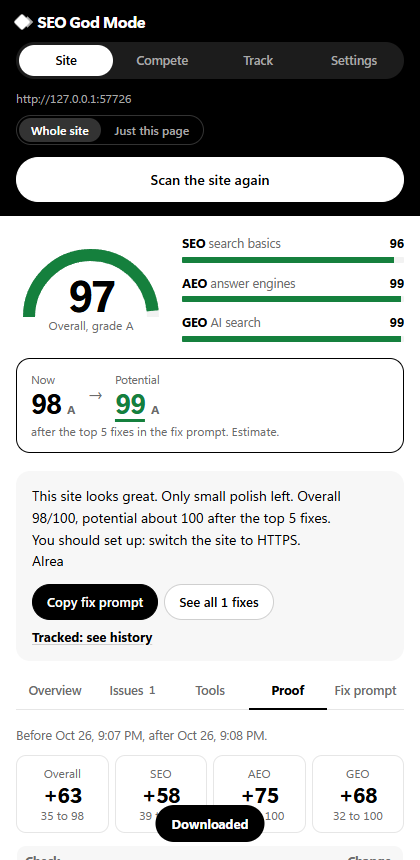
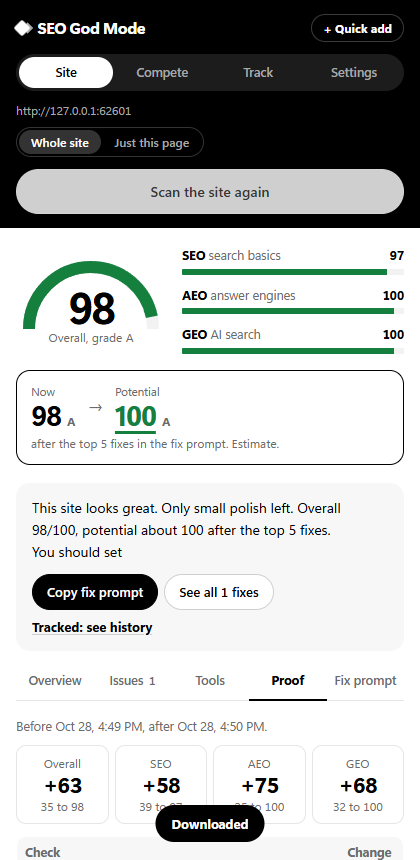
Extension 1.13.0: Quick add, off-page next steps in summaries
Header + Quick add tracks the site in the current tab as a client, your
own website or a competitor (then asks whose competitor). When a page or
site is already ahead on the page, summaries, verdicts and fix prompts
say the next biggest wins are Google reviews, the Google Maps listing and
links from other websites.

diff --git a/extension/views.js b/extension/views.js
@@ -13,7 +13,7 @@ import { rateSite, siteOrigins } from "./lib/siterate.js";
 import { history, saveScan } from "./lib/proof.js";
 import { getSettings, overlayRegistered, runDaily, saveSettings, syncOverlay } from "./lib/daily.js";
 import { techBlock, techProfile } from "./lib/tech.js";
-import { breakdown } from "./lib/breakdown.js";
+import { breakdown, OFF_PAGE } from "./lib/breakdown.js";
 import * as T from "./lib/track.js";
 import * as K from "./lib/kwcheck.js";
 import * as U from "./lib/update.js";
@@ -234,9 +234,9 @@ async function renderResult() {
     <div class="upd"><p>${scan ? `<b>Full site rating ${scan.scores.overall}/100</b> (SEO ${scan.scores.seo}, AEO ${scan.scores.aeo}, GEO ${scan.scores.geo}), scanned ${when(scan.page.scannedAt)}.` : "<b>No full site rating yet.</b> It crawls the site and runs all 39 checks."}</p>
       <div class="btns"><button id="ratesite">${scan ? "Rate the whole site again" : "Rate the whole site"}</button>${!tracked && me && !sameDomain(b.url, me.origin) ? `<button id="trackcomp">Track as competitor</button>` : ""}</div></div>
     <h2 class="sec">Why it ranks here</h2>
-    ${b.why.length ? `<ul class="qs">${b.why.map((w) => `<li>${esc(w)}</li>`).join("")}</ul>` : `<p class="lede">Nothing on the page stands out against the others, so its position likely comes from links, reviews or brand strength (not measured).</p>`}
+    ${b.why.length ? `<ul class="qs">${b.why.map((w) => `<li>${esc(w)}</li>`).join("")}</ul>` : `<p class="lede">Nothing on the page stands out against the others. ${OFF_PAGE}</p>`}
     ${diff.length || other.length ? `<h2 class="sec">${diff.length ? "What the pages above it do differently" : "To rank higher"} <small>most important first</small></h2>
-      <div class="list">${(diff.length ? diff : other).slice(0, 8).map((x) => `<div class="factor"><span class="dot s-fail"></span><div><b>${esc(x.label)}</b><small>This page: ${esc(x.mine)} · ${b.relation === "above" ? "above it" : "others"}: ${esc(x.them.join(" / ") || "–")}</small><p>${esc(x.fix)}</p></div></div>`).join("")}</div>` : `<p class="lede">It matches the others on every on-page factor measured. The gap is off-page.</p>`}
+      <div class="list">${(diff.length ? diff : other).slice(0, 8).map((x) => `<div class="factor"><span class="dot s-fail"></span><div><b>${esc(x.label)}</b><small>This page: ${esc(x.mine)} · ${b.relation === "above" ? "above it" : "others"}: ${esc(x.them.join(" / ") || "–")}</small><p>${esc(x.fix)}</p></div></div>`).join("")}</div>` : `<p class="lede">It matches the others on every on-page factor measured. ${OFF_PAGE}</p>`}
     <div class="btns stack"><button id="bdcopy" class="primary">Copy fix prompt</button></div>
     ${fold("Every factor side by side", b.rows.length, `<table class="mini"><tr><th>Factor</th><th>This</th>${b.rivals.map((r) => `<th title="${esc(r.host)}">#${r.position}</th>`).join("")}</tr>${b.rows.map((r) => `<tr class="${r.behind ? "bad" : ""}"><td>${esc(r.label)}</td><td class="num">${esc(r.mine)}</td>${r.them.map((t) => `<td>${esc(t)}</td>`).join("")}</tr>`).join("")}</table>`, true)}
     ${diff.length && other.length ? fold("Other improvements", other.length, `<div class="list">${other.map((x) => `<div class="factor"><span class="dot s-part"></span><div><b>${esc(x.label)}</b><p>${esc(x.fix)}</p></div></div>`).join("")}</div>`) : ""}
@@ -281,7 +281,7 @@ const RULES = `Rules: use only facts that are on the site or that I confirm, and
 function rankPrompt(r) {
   return `Help my page rank for "${r.query}". My page: ${r.myUrl} (currently ${r.myPosition ? "#" + r.myPosition : "not in the top " + (r.rivals.length + r.skipped.length)}).
 I compared it with the ${r.rivals.length} pages ranking above it (SEO God Mode, ${new Date().toISOString().slice(0, 10)}). On-page factors where they're ahead (OBSERVED):
-${r.behind.map((f, i) => `${i + 1}. ${f.label}: top pages ${f.display[0]}, mine ${f.display[1]}. ${f.fix}`).join("\n") || "- None. The gap is probably off-page (links, reviews, brand)."}
+${r.behind.map((f, i) => `${i + 1}. ${f.label}: top pages ${f.display[0]}, mine ${f.display[1]}. ${f.fix}`).join("\n") || "- None on the page. " + OFF_PAGE}
 ${r.topicGaps.length ? `\nTopics the top pages cover that mine doesn't (only add what we really offer): ${r.topicGaps.map((t) => t.topic).join(", ")}.` : ""}
 ${r.paa.length || r.rivalQuestions.length ? `\nQuestions to answer as headings with a 40–60 word direct answer: ${[...r.paa, ...r.rivalQuestions].slice(0, 8).map((q) => `"${q}"`).join(", ")}.` : ""}
 Target depth: about ${r.brief.targetWords ?? "?"} words in ${r.brief.sections ?? "?"} sections.${r.brief.schema.length ? ` Schema the top pages use: ${r.brief.schema.join(", ")} (add only where it matches visible content).` : ""}
@@ -422,8 +422,19 @@ export async function renderTrack(helpers) {
 // ---------------------------------------------------------------------- Track new: step by step
 /** opts.role / opts.of fix those answers (for "Add competitor" on a business). back: where Cancel returns. */
 function startWizard(opts = {}) {
-  v.wizard = { step: 0, url: "", role: opts.role || null, of: opts.of ?? null, fixed: !!opts.role, kws: new Set(), detected: null, back: opts.back || null };
+  v.wizard = newWizard(opts);
   renderTrack(ui);
+}
+const newWizard = (opts) => ({ step: 0, url: opts.url || "", role: opts.role || null, of: opts.of ?? null, fixed: !!opts.role, kws: new Set(), detected: null, back: opts.back || null });
+
+/** Header "Quick add": track the site in the current tab as a client, your own website or a competitor (asks whose). */
+export async function quickAdd(role, helpers) {
+  ui = helpers;
+  const tab = await helpers.activeTab().catch(() => null);
+  const url = /^https?:/i.test(tab?.url || "") ? new URL(tab.url).origin : "";
+  v.detail = null;
+  v.wizard = newWizard({ role, url });
+  await helpers.setMode("track");
 }
 async function wizardSteps() {
   const w = v.wizard, owned = (await T.trackedSites()).filter(T.isOwned);
@@ -549,7 +560,10 @@ async function compareBlock(s, list) {
     if (m && r.ratio != null && m.ratio != null && r.ratio - m.ratio >= 0.2) gaps.push({ id: r.id, name: r.name, who: rivals[i].name, them: r.ratio, you: m.ratio, gain: m.gain || 0, tip: m.tip }); }));
   const byCheck = Object.values(gaps.reduce((a, g) => { (a[g.id] ||= { ...g, who: [] }).who.push(g.who); return a; }, {})).sort((a, b) => b.who.length - a.who.length || b.gain - a.gain);
   v.cmp = { s, rivals, byCheck, me };
+  const theirs = rows.filter(({ x }) => x.origin !== s.origin).map(({ p }) => p?.overall).filter((n) => n != null);
+  const ahead = me?.overall != null && theirs.length && theirs.every((n) => n <= me.overall);
   return `<h2 class="sec">You vs competitors <small>${rivals.length}</small></h2>
+    ${ahead ? `<p class="verdict">${esc(s.name)} scores ${me.overall}, at or above every tracked competitor (best of theirs ${Math.max(...theirs)}). ${OFF_PAGE}</p>` : ""}
     ${rivals.length ? `<table class="mini"><tr><th>Site</th><th>Overall</th><th>SEO</th><th>AEO</th><th>GEO</th></tr>${rows.map(({ x, p }) => `<tr class="${x.origin === s.origin ? "me" : ""}"><td>${esc(x.name)}</td>${x.origin === s.origin ? `<td>${p?.overall ?? "–"}</td><td>${p?.seo ?? "–"}</td><td>${p?.aeo ?? "–"}</td><td>${p?.geo ?? "–"}</td>` : cell(p?.overall, me?.overall) + cell(p?.seo, me?.seo) + cell(p?.aeo, me?.aeo) + cell(p?.geo, me?.geo)}</tr>`).join("")}</table>
       ${hist.some((h) => h.length) ? chart : ""}
       ${byCheck.length ? `<h2 class="sec">Where they're ahead</h2><div class="list">${byCheck.slice(0, 10).map((g) => `<div class="factor"><span class="dot s-fail"></span><div><b>${esc(g.name)}</b><small>${esc(g.who.join(", "))} ${g.who.length === 1 ? "beats" : "beat"} you here${g.gain ? ` · +${g.gain} pts for you` : ""}</small>${g.tip ? `<p>${esc(g.tip)}</p>` : ""}</div></div>`).join("")}</div>
@@ -564,6 +578,7 @@ function comparePrompt(c) {
   return `Help ${c.s.name} (${c.s.origin}) catch up with its competitors: ${c.rivals.map((r) => `${r.name} (${r.origin})`).join(", ")}.
 Latest SEO God Mode whole-site scores: ${c.s.name} ${c.me?.overall ?? "?"}/100. Checks where competitors score clearly higher (OBSERVED):
 ${c.byCheck.map((g, i) => `${i + 1}. ${g.name}: ${g.who.join(", ")} ahead; worth about +${g.gain} pts. ${g.tip || ""}`).join("\n")}
+Once these are done, the website side is as strong as theirs; the next biggest wins are more Google reviews, a stronger Google Business Profile and links from other websites.
 Learn from what they do, but write our own content from our real facts; never copy their text, photos, reviews or claims. Use [CONFIRM: ...] for anything you'd have to guess. Verify the live site after each change.`;
 }
 

diff --git a/extension/lib/breakdown.js b/extension/lib/breakdown.js
@@ -104,17 +104,20 @@ export async function breakdown(serp, url, { n = 3 } = {}) {
  * One plain sentence that squares the on-page score with the position, so a #1 page with a middling score reads as
  * "its edge is off-page" instead of looking like a wrong number.
  */
+/** Said whenever the page side is done: what's left is off the website. */
+export const OFF_PAGE = "The next biggest wins are off the website: more Google reviews, a stronger Google Maps listing (Business Profile) and links from other websites. There's nothing else on the page itself that would move it much.";
+
 export function verdict(position, score, others, relation) {
   if (!others.length) return "None of the other results could be read, so there's nothing to compare it with.";
   const avg = Math.round(others.reduce((a, b) => a + b, 0) / others.length);
   const them = relation === "above" ? "the pages above it" : "the next results";
   const top = position != null && position <= 3;
   const where = position ? `#${position}` : "where it is";
-  if (score >= avg + 5) return top ? `Its page matches this search better than ${them} (this page ${score}, theirs ${avg} on average), which helps it hold ${where}.`
-    : `Its page matches this search as well as or better than ${them} (this page ${score}, theirs ${avg} on average), so they most likely win on links, reviews or brand.`;
+  if (score >= avg + 5) return top ? `Its page matches this search better than ${them} (this page ${score}, theirs ${avg} on average), which helps it hold ${where}. ${OFF_PAGE}`
+    : `Its page matches this search as well as or better than ${them} (this page ${score}, theirs ${avg} on average), so they most likely win off the page. ${OFF_PAGE}`;
   if (score <= avg - 5) return top ? `It ranks ${where} even though ${them} score higher on the page itself (this page ${score}, theirs ${avg} on average). Its lead comes from what this can't measure: links, reviews, brand or site age.`
     : `${relation === "above" ? "The pages above it" : "The other results"} match this search better on the page (this page ${score}, theirs ${avg} on average). Closing the gaps below is the quickest win.`;
-  return top ? `On the page it's level with ${them} (this page ${score}, theirs ${avg} on average). What keeps it at ${where} is likely links, reviews or brand.`
+  return top ? `On the page it's level with ${them} (this page ${score}, theirs ${avg} on average). What keeps it at ${where} is likely off the page. ${OFF_PAGE}`
     : `On the page it's level with ${them} (this page ${score}, theirs ${avg} on average). Fixing the gaps below gives it an edge; the rest is links, reviews and brand.`;
 }
 
@@ -122,7 +125,7 @@ export function fixPrompt(b) {
   const vs = b.rivals.map((r) => `#${r.position} ${r.host}`).join(", ");
   const list = b.gaps.slice(0, 8).map((g, i) => `${i + 1}. ${g.label}: this page ${g.mine}, ${b.relation === "above" ? "pages above it" : "next results"} ${g.them.join(" / ") || "–"}. ${g.fix}`).join("\n");
   return `Help ${b.url} rank higher for "${b.query}" on Google (it's ${b.position ? "#" + b.position : "not in the top results"}). SEO God Mode compared it with ${vs || "the top results"} on ${new Date().toISOString().slice(0, 10)}; on-page score ${b.score}/100${b.others?.length ? " (theirs: " + b.others.join(", ") + ")" : ""}.
-${list ? `What to change, most important first (OBSERVED on the pages):\n${list}` : "It already matches the top results on every on-page factor measured; the gap is probably off-page (links, reviews, brand)."}
+${list ? `What to change, most important first (OBSERVED on the pages):\n${list}` : "It already matches the top results on every on-page factor measured. " + OFF_PAGE}
 ${b.why.length ? `\nKeep what already works: ${b.why.join("; ")}.` : ""}
 Rules: use only facts that are on the site or that I confirm, and write [CONFIRM: ...] for anything you'd have to guess. Don't copy other sites' text, photos, reviews or claims. Keep the design. Verify the live page after deploying. Don't promise rankings.
 Not measured here: ${b.notMeasured.join("; ")}.`;

diff --git a/extension/lib/summary.js b/extension/lib/summary.js
@@ -34,6 +34,9 @@ export function potentials(scan) {
   return { now, top5: scan.scores.potential_after_top5 ?? Math.min(100, now + sum(order.slice(0, 5))), all: Math.min(100, now + sum(failed)) };
 }
 
+/** The website side is strong, so what's left is off the site. */
+const NEXT = "The next biggest wins are off the website: more Google reviews, a stronger Google Maps listing (Business Profile) and links from other websites. Past that, there's nothing else on the site that would move it much.";
+
 export function summaryText(scan) {
   const { scores, results } = scan;
   const site = scan.mode === "site";
@@ -46,7 +49,8 @@ export function summaryText(scan) {
   if ((scores.overall ?? 0) >= 100 || !failed.length) {
     const lines = [`${what} scores ${scores.overall}/100. There's currently nothing you need to do from here.`];
     if (failed.length) lines.push(`${failed.length} tiny optional tweak${failed.length === 1 ? " is" : "s are"} listed under Issues if you want them, but they won't move the score.`);
-    lines.push("Rescan after you change the site to keep it there. Rankings and AI citations also depend on things a public scan can't see, like reviews, links and Search Console data.");
+    lines.push("Rescan after you change the site to keep it there.");
+    lines.push(NEXT);
     return lines.join("\n");
   }
   const v = VERDICT.find(([min]) => (scores.overall ?? 0) >= min)[1];
@@ -69,6 +73,7 @@ export function summaryText(scan) {
     .map((r) => (checkById[r.id]?.name || r.name).replace(/\s*\(.*\)$/, ""));
   if (good.length) out.push(`Already working: ${list(good.map((g, i) => (i ? low(g) : g)))}.`);
   if (failed.length) out.push(`Copy the fix prompt to get it all done in order.`);
+  if ((scores.overall ?? 0) >= 85) out.push(`After these, ${low(NEXT)}`);
   // Verdict (and weakest area) as one opening line, then one line per point.
   const lead = out.splice(0, areas.length && scores[areas[0]] < 80 ? 2 : 1).join(" ");
   return [lead, ...out].map(cap).join("\n");

diff --git a/extension/sidepanel.css b/extension/sidepanel.css
@@ -37,6 +37,14 @@ header { padding: 14px 16px 14px; background: var(--head); color: var(--head-ink
 .top { display: flex; align-items: center; justify-content: space-between; }
 .brand { display: flex; align-items: center; gap: 9px; font: 800 16px/1 var(--display); letter-spacing: -.02em; }
 .mark { width: 12px; height: 12px; background: var(--head-ink); transform: rotate(45deg); border-radius: 2px; box-shadow: 4px -4px 0 -2px var(--head-muted); }
+.topright { display: flex; align-items: center; gap: 8px; }
+header .quickadd { padding: 4px 11px; font-size: 12px; font-weight: 700; background: transparent; color: var(--head-ink); border-color: #3a3a3a; }
+header .quickadd:hover, header .quickadd[aria-expanded="true"] { border-color: var(--head-ink); }
+.qamenu { position: absolute; right: 12px; top: 46px; width: min(290px, calc(100% - 24px)); z-index: 10; background: var(--paper); color: var(--ink);
+  border: 1px solid var(--rule-2); border-radius: var(--r-lg); padding: 10px; display: grid; gap: 6px; box-shadow: 0 10px 30px rgba(0, 0, 0, .28); }
+.qamenu[hidden] { display: none; }
+.qamenu p { margin: 2px 4px 2px; font-size: 12px; color: var(--muted); }
+.qamenu .tile { padding: 9px 30px 9px 12px; }
 .platform { font-size: 11.5px; color: var(--head-ink); border: 1px solid #3a3a3a; border-radius: 99px; padding: 1px 9px; }
 .mode { display: grid; grid-template-columns: repeat(4, 1fr); gap: 2px; padding: 3px; margin-top: 12px; background: var(--head-wash); border-radius: 999px; }
 .mode button { border: 0; background: transparent; padding: 6px 4px; font-size: 12.5px; color: var(--head-muted); border-radius: 999px; justify-content: center; }

diff --git a/extension/lib/kwcheck.js b/extension/lib/kwcheck.js
@@ -96,6 +96,7 @@ export function keywordPrompt(origin, report) {
   return `Help ${origin} rank higher on Google for these keywords (SEO God Mode keyword check, ${new Date().toISOString().slice(0, 10)}; positions read from Google, page facts OBSERVED).
 ${weak.length ? `Not in the top 3, closest first:\n${weak.map(line).join("\n")}` : "Every checked keyword is in the top 3."}
 ${strong.length ? `\nAlready top 3 (don't break these): ${strong.map((r) => `"${r.q}" #${r.pos}`).join(", ")}.` : ""}
+If a page already scores at or above the top results on the page, say so: the on-page work is done there, and the next biggest wins are more Google reviews, a stronger Google Business Profile and links from other websites.
 For each weak keyword: pick the one page that should rank for it (create it if no page fits and say so), then change its title, H1, opening lines and sections to answer the search, and link to it from related pages. Don't target two keywords with the same page if they need different answers.
 Rules: use only facts that are on the site or that I confirm, and write [CONFIRM: ...] for anything you'd have to guess. Don't copy competitors' text, photos, reviews or claims. Use each keyword naturally; no stuffing. Keep the design. Verify the live pages after deploying. Don't promise rankings.
 Not measured: backlinks, reviews and Google Business Profile strength, site age, clicks. Positions vary by location and person.`;

diff --git a/extension/sidepanel.js b/extension/sidepanel.js
@@ -8,7 +8,7 @@ import { compare, history, proofReport, saveScan, setBaseline } from "./lib/proo
 import { REPO, siteCommands } from "./lib/skills.js";
 import { TOOLS } from "./lib/tools.js";
 import { addScorePoint, trackedFor, trackSite } from "./lib/track.js";
-import { focusResult, renderCompete, renderGoogle, renderTrack, showTech, updateBanner } from "./views.js";
+import { focusResult, quickAdd, renderCompete, renderGoogle, renderTrack, showTech, updateBanner } from "./views.js";
 import { staleCode } from "./lib/daily.js";
 
 const $ = (id) => document.getElementById(id);
@@ -399,6 +399,16 @@ async function setMode(mode) {
     $("empty").hidden = false;
   }
   scanLabel();
+}
+
+// Quick add: a small menu under the header.
+{
+  const btn = $("quickadd"), menu = $("qamenu");
+  const open = (on) => { menu.hidden = !on; btn.setAttribute("aria-expanded", String(on)); if (on) menu.querySelector("button").focus(); };
+  btn.onclick = (e) => { e.stopPropagation(); open(menu.hidden); };
+  menu.querySelectorAll("[data-qa]").forEach((b) => (b.onclick = () => { open(false); quickAdd(b.dataset.qa, helpers); }));
+  document.addEventListener("click", (e) => { if (!menu.hidden && !menu.contains(e.target)) open(false); });
+  document.addEventListener("keydown", (e) => { if (e.key === "Escape" && !menu.hidden) { open(false); btn.focus(); } });
 }
 
 (async () => {

diff --git a/extension/sidepanel.html b/extension/sidepanel.html
@@ -10,7 +10,13 @@
   <header>
     <div class="top">
       <div class="brand"><span class="mark" aria-hidden="true"></span>SEO God Mode</div>
-      <span id="platform" class="platform" hidden></span>
+      <div class="topright"><span id="platform" class="platform" hidden></span><button id="quickadd" class="quickadd" aria-haspopup="true" aria-expanded="false">+ Quick add</button></div>
+    </div>
+    <div id="qamenu" class="qamenu" role="menu" aria-label="Quick add" hidden>
+      <p>Add the site in this tab as</p>
+      <button class="tile" role="menuitem" data-qa="client"><b>A client</b><small>You manage its SEO.</small></button>
+      <button class="tile" role="menuitem" data-qa="mine"><b>A website of mine</b><small>Your own business.</small></button>
+      <button class="tile" role="menuitem" data-qa="competitor"><b>A competitor</b><small>Then pick whose competitor it is.</small></button>
     </div>
     <div id="updbar" class="updbar" hidden></div>
     <div id="mode" class="mode" role="group" aria-label="What to scan">

diff --git a/extension/README.md b/extension/README.md
@@ -31,7 +31,7 @@ The first scan of each site asks for access to that site (both its `www` and non
 
 - **Site** (default): crawls up to 30 pages the way the skill does, then scores 39 checks with rubric v2.0. Fixes are ranked the same way as the skill (points gained × impact) and list the affected pages. Shows your score now and your potential score after the fixes, plus the site's **hosting and tech**. **Just this page** switches to 78 detailed checks on the page you're viewing, plus 8 tools.
 - **Compete:** where you rank for every search you've made, suggested keywords, and three tools: why other pages outrank you, keyword ideas, and a Google Business Profile audit (below).
-- **Track:** the websites you follow, with score history, keyword positions, hosting and tech. **Track new site** adds one step by step.
+- **Track:** the websites you follow, with score history, keyword positions, hosting and tech. **Track new site** adds one step by step, and **+ Quick add** in the header adds the site in the current tab as a client, your own website or a competitor (then asks whose).
 - **Settings:** SEO God Mode on Google results (below), reminders, updates, and export/import.
 
 The panel is black and white, with colour only for ratings: green for good (85+, passing, top 3 on Google), amber for fair, red for poor. Marks also differ in fill (solid passing, half partial, hollow failing), so they read without colour too. Any tracked site or keyword has a × to stop tracking it and delete its history.

diff --git a/CHANGELOG.md b/CHANGELOG.md
@@ -1,5 +1,10 @@
 # Changelog
 
+## 2.18.0 (2026-10-28): extension 1.13: Quick add, and what to do once the page side is done
+
+- **Quick add:** a **+ Quick add** button in the header adds the site in the current tab as a client, a website of yours, or a competitor. For a competitor it then asks whose competitor it is. It opens the usual Track steps with the address filled in.
+- **Once a site is ahead on the page, it says what's next:** when a page scores at or above the pages it competes with (hover cards, breakdowns, the keyword report and You vs competitors in Track), or a site scores 85 or more, the summary now says the next biggest wins are off the website: more Google reviews, a stronger Google Maps listing (Business Profile) and links from other websites, and that there's nothing else on the page that would move it much. The fix prompts say the same.
+
 ## 2.17.0 (2026-10-27): extension 1.12: Check updates positions, keyword report, new keywords to try
 
 - **Check updates your position:** Check next to a tracked keyword used to open Google in a new tab, and the position only changed if the overlay was on, and never twice within an hour. Now Check searches the keyword on Google in a background tab, reads the results and updates the position on the spot. **Check all keywords on Google** does every keyword (up to 15), one every few seconds. A newer reading within the hour replaces the old one instead of being ignored.
